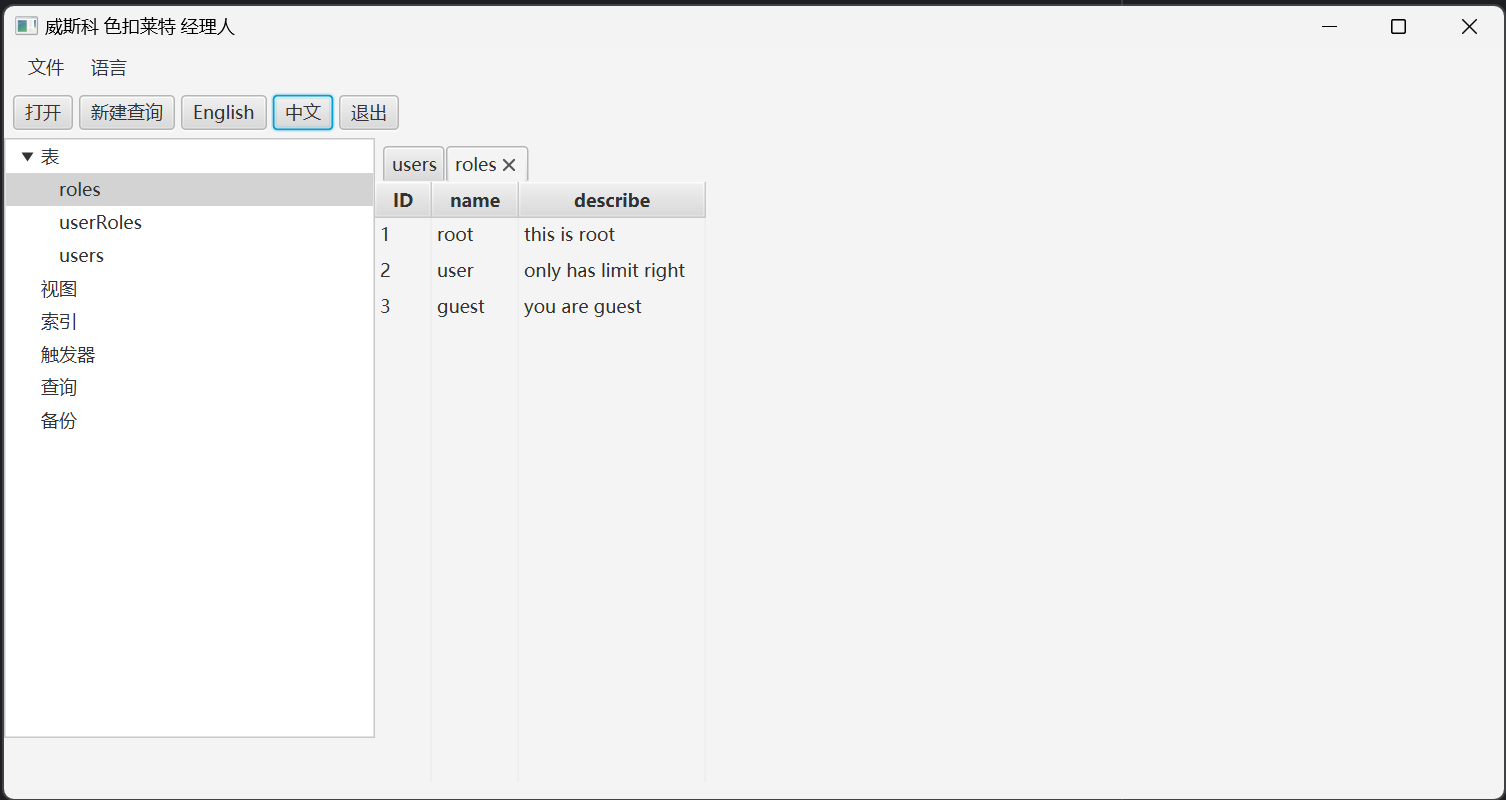
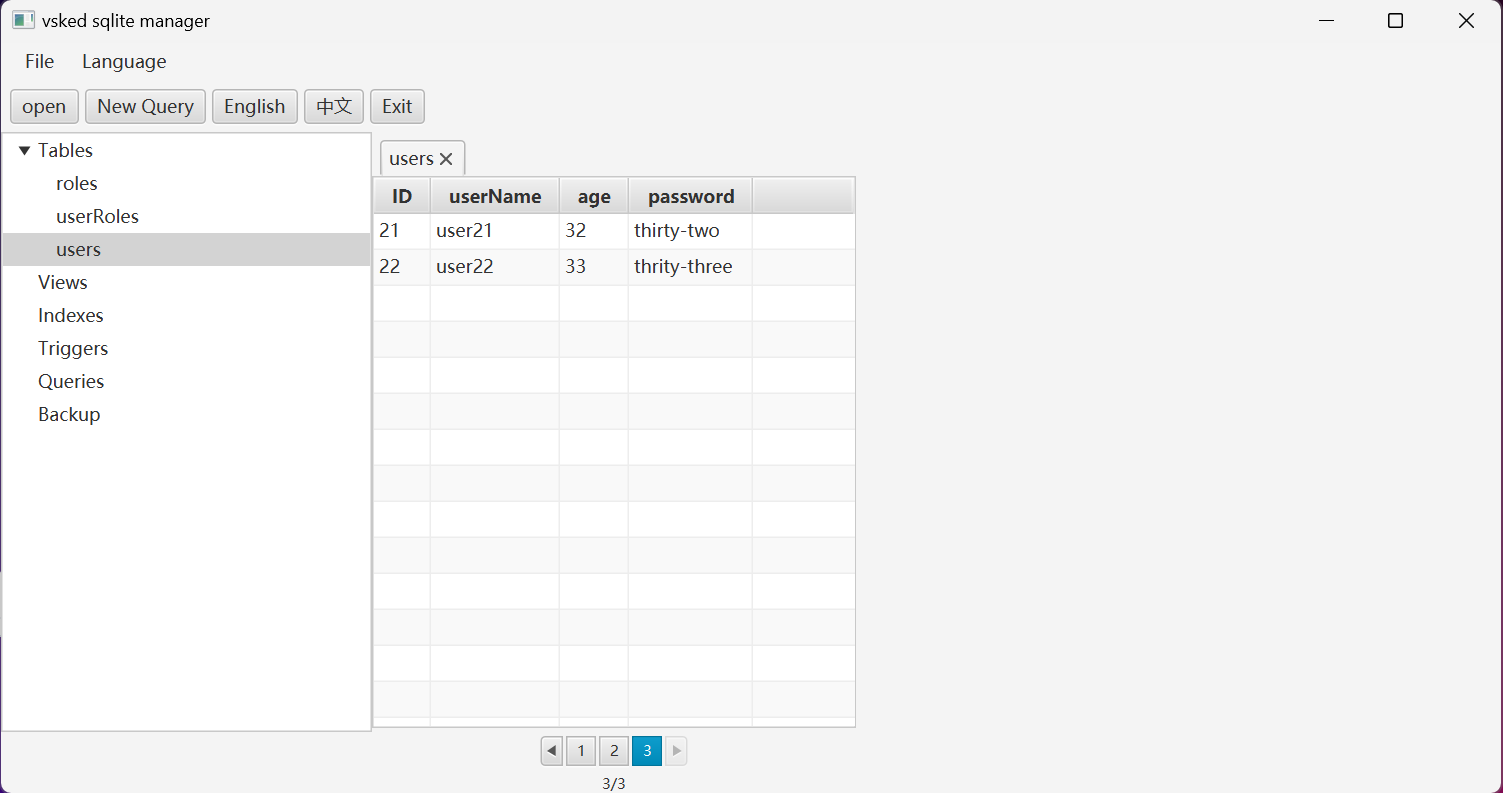
add pagination to table
add pagination to table
update screen shoot to screen shoot folder.

Changed region(s): [[0.0, 0.0, 1.0, 0.9382], [0.0, 0.9079, 1.0, 1.0]]

diff --git a/src/main/java/com/vsked/sqlitemanager/ui/ApplicationMainUI.java b/src/main/java/com/vsked/sqlitemanager/ui/ApplicationMainUI.java
@@ -22,6 +22,7 @@ import javafx.collections.FXCollections;
 import javafx.collections.ObservableList;
 import javafx.event.ActionEvent;
 import javafx.event.EventHandler;
+import javafx.scene.Node;
 import javafx.scene.Scene;
 import javafx.scene.control.Button;
 import javafx.scene.control.Menu;
@@ -39,6 +40,7 @@ import javafx.scene.layout.BorderPane;
 import javafx.scene.layout.GridPane;
 import javafx.stage.Stage;
 import javafx.stage.WindowEvent;
+import javafx.util.Callback;
 import org.slf4j.Logger;
 import org.slf4j.LoggerFactory;
 
@@ -51,6 +53,8 @@ public class ApplicationMainUI extends Application {
 
 	private static final Logger log = LoggerFactory.getLogger(ApplicationMainUI.class);
 
+	private Scene scene;
+
 	private ApplicationService applicationService=new ApplicationService();
 	private DatabaseService databaseService;
 
@@ -60,6 +64,14 @@ public class ApplicationMainUI extends Application {
 
 	public void setDatabaseService(DatabaseService databaseService) {
 		this.databaseService = databaseService;
+	}
+
+	public Scene getScene() {
+		return scene;
+	}
+
+	public void setScene(Scene scene) {
+		this.scene = scene;
 	}
 
 	public static void main(String[] args) {
@@ -194,8 +206,6 @@ public class ApplicationMainUI extends Application {
 
 		centerGridPane.add(tabPane,0,0);
 
-		VPage vTablePage =new VPage(new VPageIndex(0),new VPageSize(10));
-
 		systemViewTree.getSelectionModel().selectedItemProperty().addListener(new ChangeListener<TreeItem>() {
 			@Override
 			public void changed(ObservableValue<? extends TreeItem> paramObservableValue, TreeItem paramT1, TreeItem selectedItem) {
@@ -227,28 +237,33 @@ public class ApplicationMainUI extends Application {
 						Tab tab=new Tab(selectedItem.getValue().toString());
 						GridPane tableGridPane=new GridPane();
 
-						TableView<Map> tableView=new TableView<>();
-
-
-						TableService tableService=new TableService(getDatabaseService());
 						VTableName currentTableName=new VTableName(selectedItem.getValue().toString());
-						List<VTableColumn> tableColumns=tableService.getColumns(currentTableName);
-						List<TableColumnView> tableViewColumns=tableService.getTableViewColumns(tableColumns);
-						for(TableColumnView tableColumnView :tableViewColumns){
-							TableColumn<Map, String> keyColumn = new TableColumn<>(tableColumnView.getName());
-							keyColumn.setCellValueFactory(new MapValueFactory<>(tableColumnView.getName()));
-							tableView.getColumns().add(keyColumn);
-						}
 
-
-						List<Map> tableDatas=tableService.getData(currentTableName,vTablePage);
-						ObservableList<Map> dataList=FXCollections.observableArrayList(tableDatas);
-                        log.debug(dataList+"");
-						tableView.setItems(dataList);
-
-						tableGridPane.add(tableView,0,0);
+                        VPage page=new VPage(new VPageIndex(0),new VPageSize(10));
 
 						Pagination pagination=new Pagination();
+
+						TableService tableService=new TableService(getDatabaseService());
+						int pageCount= tableService.getTablePageCount(currentTableName,page);
+						pagination.setPageCount(pageCount);
+						pagination.setPageFactory(new Callback<Integer, Node>() {
+							@Override
+							public Node call(Integer pageIndex) {
+								log.info("PageIndex:"+pageIndex);
+
+								return createPage(new VPage(new VPageIndex(pageIndex),page.getPageSize()),currentTableName);
+							}
+						});
+
+
+						// pagination width change with window
+						getScene().widthProperty().addListener(new ChangeListener<Number>() {
+							@Override
+							public void changed(ObservableValue<? extends Number> observable, Number oldValue, Number newValue) {
+								pagination.setPrefWidth(newValue.doubleValue());
+							}
+						});
+
 						tableGridPane.add(pagination,0,1);//column,row
 
 
@@ -300,11 +315,12 @@ public class ApplicationMainUI extends Application {
 
 		openBt.setOnAction(fileOpenMenu.getOnAction());
 
+		scene = new Scene(content, 1000, 500);
+		setScene(scene);
 
-		Scene scene = new Scene(content, 1000, 500);
 
 		stage.titleProperty().bind(I18N.createStringBinding("window.title"));
-		stage.setScene(scene);
+		stage.setScene(getScene());
 
 		stage.setOnCloseRequest(new EventHandler<WindowEvent>() {
 			@Override
@@ -315,6 +331,32 @@ public class ApplicationMainUI extends Application {
 
 		stage.show();
 	}
+
+
+	private TableView<Map> createPage(VPage page,VTableName currentTableName) {
+
+		TableView<Map> tableView=new TableView<>();
+
+		TableService tableService=new TableService(getDatabaseService());
+		List<VTableColumn> tableColumns=tableService.getColumns(currentTableName);
+		List<TableColumnView> tableViewColumns=tableService.getTableViewColumns(tableColumns);
+		for(TableColumnView tableColumnView :tableViewColumns){
+			TableColumn<Map, String> keyColumn = new TableColumn<>(tableColumnView.getName());
+			keyColumn.setCellValueFactory(new MapValueFactory<>(tableColumnView.getName()));
+			tableView.getColumns().add(keyColumn);
+		}
+
+		VPage vTablePage =page;
+
+		vTablePage=tableService.getData(currentTableName,vTablePage);
+		List<Map> tableDatas=vTablePage.getData();
+		ObservableList<Map> dataList=FXCollections.observableArrayList(tableDatas);
+
+		tableView.setItems(dataList);
+		return tableView;
+	}
+
+
 
 	/**
 	 * sets the given Locale in the I18N class and keeps count of the number of switches.

diff --git a/src/main/java/com/vsked/sqlitemanager/services/TableService.java b/src/main/java/com/vsked/sqlitemanager/services/TableService.java
@@ -1,23 +1,25 @@
 package com.vsked.sqlitemanager.services;
 
 import com.vsked.sqlitemanager.domain.VPage;
+import com.vsked.sqlitemanager.domain.VPageTotalElementsNumber;
 import com.vsked.sqlitemanager.domain.VTableColumn;
 import com.vsked.sqlitemanager.domain.VTableColumnId;
 import com.vsked.sqlitemanager.domain.VTableColumnName;
 import com.vsked.sqlitemanager.domain.VTableColumnNotNull;
 import com.vsked.sqlitemanager.domain.VTableColumnPk;
 import com.vsked.sqlitemanager.domain.VTableDfltValue;
+import com.vsked.sqlitemanager.domain.VTableRecordCount;
 import com.vsked.sqlitemanager.domain.VTableTableColumnDataType;
 import com.vsked.sqlitemanager.viewmodel.TableColumnView;
 import com.vsked.sqlitemanager.domain.VTableName;
-import com.vsked.sqlitemanager.domain.VConnection;
 import com.vsked.sqlitemanager.domain.VTable;
 import com.vsked.sqlitemanager.domain.VTableList;
 import org.slf4j.Logger;
 import org.slf4j.LoggerFactory;
 
+import java.math.BigDecimal;
+import java.math.RoundingMode;
 import java.sql.Connection;
-import java.sql.DriverManager;
 import java.sql.ResultSet;
 import java.sql.ResultSetMetaData;
 import java.sql.Statement;
@@ -102,7 +104,7 @@ public class TableService {
 
     }
 
-    public int getTableRecordCount(VTableName tableName){
+    public VTableRecordCount getTableRecordCount(VTableName tableName){
         int recordCount=0;
         try {
 
@@ -113,17 +115,24 @@ public class TableService {
             ResultSet rs=st.executeQuery(sql);
             if (rs.next()){
                 recordCount=rs.getInt(1);
-                if(log.isDebugEnabled()){
+                if(log.isInfoEnabled()){
                     log.info(recordCount+"|");
                 }
             }
             rs.close();
             st.close();
-            conn.close();
         } catch (Exception e) {
             log.error("connection test error",e);
         }
-        return recordCount;
+        return new VTableRecordCount(recordCount);
+    }
+
+    public int getTablePageCount(VTableName tableName,VPage page){
+        VTableRecordCount count=getTableRecordCount(tableName);
+        BigDecimal b1=new BigDecimal(count.getRecordCount());
+        BigDecimal b2=new BigDecimal(page.getPageSize().getSize());
+        BigDecimal b3=b1.divide(b2).setScale(0,RoundingMode.CEILING);
+        return b3.intValue();
     }
 
     public List<TableColumnView> getTableViewColumns(List<VTableColumn> tableColumnList){
@@ -134,12 +143,17 @@ public class TableService {
         return tableColumnViews;
     }
 
-    public List<Map> getData(VTableName tableName, VPage VPage){
+    public VPage getData(VTableName tableName, VPage VPage){
         List<Map> tableDataList=new ArrayList<>();
         try {
+            VTableRecordCount tableRecordCount=getTableRecordCount(tableName);
+            VPageTotalElementsNumber pageTotalElementsNumber=new VPageTotalElementsNumber(tableRecordCount.getRecordCount());
+            VPage.setPageTotalElementsNumber(pageTotalElementsNumber);
             Connection conn= getDatabaseService().getvConnection().getConnection();
             Statement st=conn.createStatement();
             String sql="select * from "+tableName.getTableName();
+            sql=getPageSql(sql,VPage);
+
             ResultSet rs=st.executeQuery(sql);
 
             ResultSetMetaData metaData=rs.getMetaData();
@@ -152,11 +166,23 @@ public class TableService {
                 }
                 tableDataList.add(data);
             }
+            VPage.setData(tableDataList);
             rs.close();
             st.close();
         } catch (Exception e) {
             log.error("get table data error",e);
         }
-        return tableDataList;
+        return VPage;
+    }
+
+    public String getPageSql(String sql,VPage page){
+        String pageSql="";
+        if(page.getCurrentPageIndex().getIndex()==0){
+            pageSql=sql+" limit "+page.getPageSize().getSize();
+            return pageSql;
+        }
+
+        pageSql=sql+" limit "+page.getPageSize().getSize()+" OFFSET "+page.getCurrentPageIndex().getIndex()*page.getPageSize().getSize();
+        return pageSql;
     }
 }

diff --git a/src/main/java/com/vsked/sqlitemanager/domain/VTableRecordCount.java b/src/main/java/com/vsked/sqlitemanager/domain/VTableRecordCount.java
@@ -1,0 +1,13 @@
+package com.vsked.sqlitemanager.domain;
+
+public class VTableRecordCount {
+    private long recordCount;
+
+    public VTableRecordCount(long recordCount) {
+        this.recordCount = recordCount;
+    }
+
+    public long getRecordCount() {
+        return recordCount;
+    }
+}
